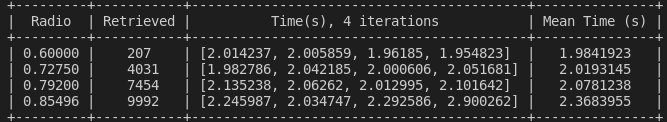
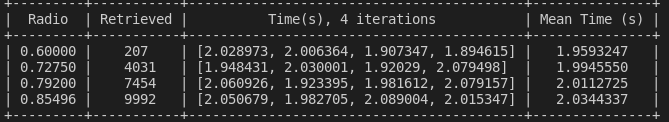
optimized usage of secondary memory

diff --git a/benchmarks.py b/benchmarks.py
@@ -1,7 +1,8 @@
-from glob_consts import index, np, timeit, sizes, encode_file
-from prettytable import PrettyTable
+from glob_consts import index, np, timeit, encode_file
+from build_idxs import sizes
 from search_algorithms import rtree_knn_search, knn_search, range_search
 from build_idxs import p
+from prettytable import PrettyTable
 
 if __name__ == "__main__":
     pivot = encode_file("Aaron_Eckhart_0001.jpg")
@@ -19,7 +20,8 @@ if __name__ == "__main__":
             seq_data = []
             start = timeit.default_timer()
             seq_data = knn_search(size, pivot)
-            seq_times.append(f"{round(timeit.default_timer() - start,7):.7f}")
+            seq_time = round(timeit.default_timer() - start,6)
+            seq_times.append("%.6f" % seq_time)
         are_equal = np.array_equal(rtree_data, seq_data)
         seq_times = [float(t) for t in seq_times]
         seq_mean = f"{np.array(seq_times).mean():.6f}"
@@ -34,7 +36,8 @@ if __name__ == "__main__":
         for _ in range(iterations):
             start = timeit.default_timer()
             range_data = range_search(idx, pivot, q)
-            times.append(f"{timeit.default_timer() - start:.6f}")
+            iter_time = round(timeit.default_timer() - start,6)
+            times.append("%.6f" % iter_time)
         times = [float(time) for time in times]
         range_mean = f"{np.array(times).mean():.7f}"
         range_table.add_row([f"{q:.5f}", len(range_data), times, range_mean])

diff --git a/preprocessing/measure_reduction.py b/preprocessing/measure_reduction.py
@@ -1,4 +1,6 @@
-from glob_consts import pd, file_list, random, np
+import sys
+sys.path.append('../BD2_Proyecto3')
+from glob_consts import pd, df, random, np
 
 COMPARE_FACTOR = 5000
 tolerance = 0.6
@@ -18,7 +20,7 @@ def measurer():
 
     for i in range (COMPARE_FACTOR):
         face_idxs = [random.randrange(df_size), random.randrange(df_size)]
-        print(f"[MEASURER] Comparation {i}: {file_list[face_idxs[0]]} vs. {file_list[face_idxs[1]]}")
+        print(f"[MEASURER] Comparation {i}: {df.iloc[face_idxs[0], 0]} vs. {df.iloc[face_idxs[1], 0]}")
         raw_rand_faces = [raw_vectors.iloc[face, 1:] for face in face_idxs]
         raw_distance = local_face_distance(raw_rand_faces[0], raw_rand_faces[1])
         reduced_rand_faces = [reduced_vectors.iloc[face, 1:] for face in face_idxs]

diff --git a/glob_consts.py b/glob_consts.py
@@ -4,19 +4,16 @@ import face_recognition as FR
 import numpy as np
 from rtree import index
 from sklearn.decomposition import PCA
-import os
 import random
 import timeit
 
 DIR_PATH = "LFW_images/"
 df = pd.read_csv("data/reduced.csv")
-file_list = sorted(os.listdir(DIR_PATH))
-sizes = [100, 200, 400, 800, 1600, 3200, 6400, 12800]
 
 def encode_file(file):
     try:
         face = df.loc[df["person"] == file].values.tolist()
         return face[0][1:]
     except KeyError:
-        print(f"[ENCODE FILE] Error: Not found {file} in {DIR_PATH}. Returning None object.")
+        print(f"[ENCODE FILE] Error: Not found {file} in {DIR_PATH} or image has zero faces. Returning None object.")
         return None

diff --git a/preprocessing/raw_writter.py b/preprocessing/raw_writter.py
@@ -1,4 +1,7 @@
-from glob_consts import FR, pd, timeit, DIR_PATH, file_list
+import sys
+sys.path.append('../BD2_Proyecto3')
+from glob_consts import FR, pd, timeit, DIR_PATH
+import os
 
 # @Return: Un csv con la representación dada por la líbreria de face_recognition
 #          (128D) para cada una de las imagenes en la carpeta referenciada.
@@ -8,7 +11,7 @@ def write_raw_vectors():
     [col_vector.append(str(d+1)) for d in range(128)]
     df = pd.DataFrame(columns=col_vector)
     row_id = 0
-    for file in file_list:
+    for file in sorted(os.listdir(DIR_PATH)):
         rep_img = FR.load_image_file(f"{DIR_PATH}{file}")
         rep_enc = FR.face_encodings(rep_img)
         if len(rep_enc) > 0:

diff --git a/build_idxs.py b/build_idxs.py
@@ -1,10 +1,13 @@
-from glob_consts import index, pd, timeit, np, DIR_PATH, df, sizes
+from glob_consts import index, DIR_PATH, timeit, np, df
 
 # Propiedades del RTree
 p = index.Property()
 p.dimension = (df.shape[1] - 1)
 p.dat_extension = 'dat'
 p.idx_extension = 'idx'
+
+# Variaciones del dataset para tests de performance
+sizes = [100, 200, 400, 800, 1600, 3200, 6400, 12800]
 
 # :: Construye un conjunto de índices de rtree, los cuales tienen diferentes tamaños
 def build_indexes():

diff --git a/preprocessing/dim_reductor.py b/preprocessing/dim_reductor.py
@@ -1,3 +1,5 @@
+import sys
+sys.path.append('../BD2_Proyecto3')
 from glob_consts import timeit, pd, PCA
 
 # @Input: La varianza del dataset. PCA determina un número de componentes (55) de forma que
